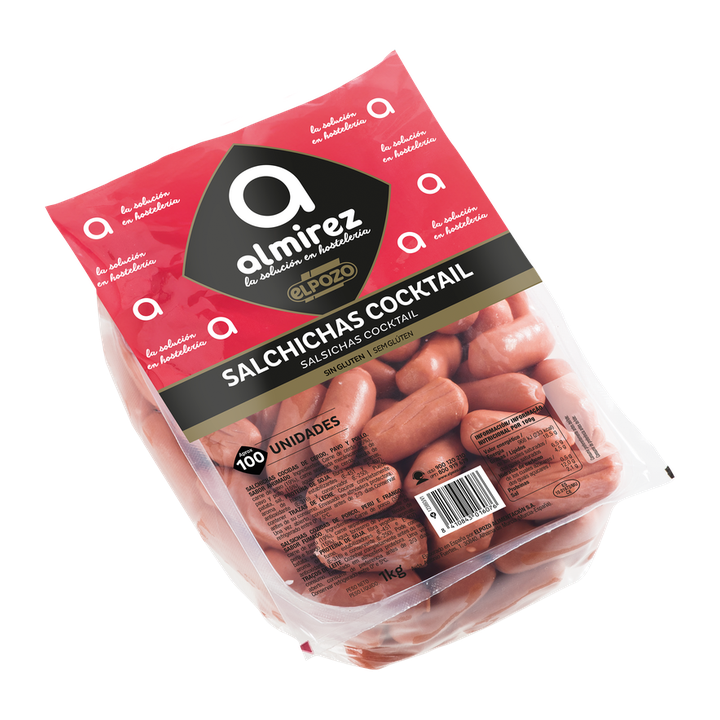
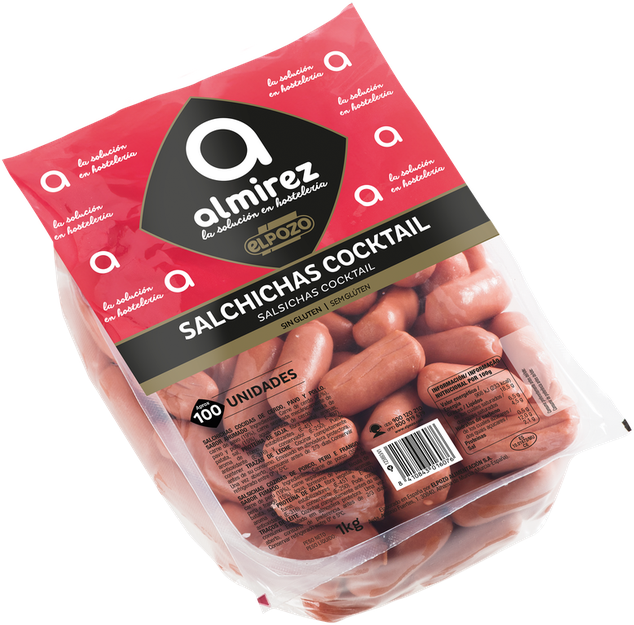
Refrigerados: salchichas cocktail con foto flotante en vez de incrustada
Claude-Session: https://claude.ai/code/session_01TfVuY2sTVvMwp4RqzYabW2

diff --git a/refrigerados-products.js b/refrigerados-products.js
@@ -89,7 +89,7 @@
     {group:'Smart Solutions',brand:'Coenyco',name:'Rabo de cerdo · 500 g',blk:'smart-solutions',uso:'',cod:'5011',plato:'rabo de cerdo guisado, en cazuela de barro.',image:'assets/refrigerados/extra/coenyco_rabo-de-cerdo-cocido-500g.png',w:687,h:687,alt:'Rabo de cerdo cocido Coenyco'},
     {group:'Smart Solutions',brand:'Revilla',name:'Torrezno de Soria · bandeja de 1,3 kg',blk:'smart-solutions',uso:'',cod:'260235',peek:'assets/refrigerados/extra/revilla_torrezno-de-soria-1-3kg.png',pw:528,ph:725,peekAlt:'Bandeja de 1,3 kg de Torrezno de Soria precocinado de Revilla'},
     {group:'Salchichas',brand:'Campofrío',name:'Salchichas Frankfurt · pack de 4 × 140 g',blk:'salchichas',uso:'',cod:'26084',image:'assets/refrigerados/extra/campofrio_salchichas-frankfurt-4x140g.png',w:720,h:720,alt:'Salchichas Frankfurt La Original de Campofrío, pack de 4 sobres de 140 g'},
-    {group:'Salchichas',brand:'El Pozo',name:'Salchichas cocktail · 1 kg',blk:'salchichas,pozo',uso:'h',cod:'20120',image:'assets/refrigerados/extra/elpozo_salchichas-cocktail-1kg.png',w:720,h:720,alt:'Salchichas cocktail de ElPozo, bolsa de 1 kg (100 unidades)'},
+    {group:'Salchichas',brand:'El Pozo',name:'Salchichas cocktail · 1 kg',blk:'salchichas,pozo',uso:'h',cod:'20120',peek:'assets/refrigerados/extra/elpozo_salchichas-cocktail-1kg.png',pw:634,ph:625,peekAlt:'Salchichas cocktail de ElPozo, bolsa de 1 kg (100 unidades)'},
     {group:'Salchichas',brand:'Oscar Mayer',name:'Salchichas Jumbo · 350 g',blk:'salchichas',uso:'',cod:'26121',image:'assets/refrigerados/extra/oscar-mayer_salchichas-jumbo-y-bacon-en-lonchas.png',w:720,h:720,alt:'Salchichas Jumbo Oscar Mayer'},
     {group:'Quesos',brand:'Reny Picot',name:'Queso de Burgos · brik de 1 kg',blk:'quesos',uso:'',cod:'17050'},
     {group:'Quesos',brand:'Reny Picot',name:'Queso de Burgos · 4 × 62,5 g',blk:'quesos',uso:'',cod:'17002'},
